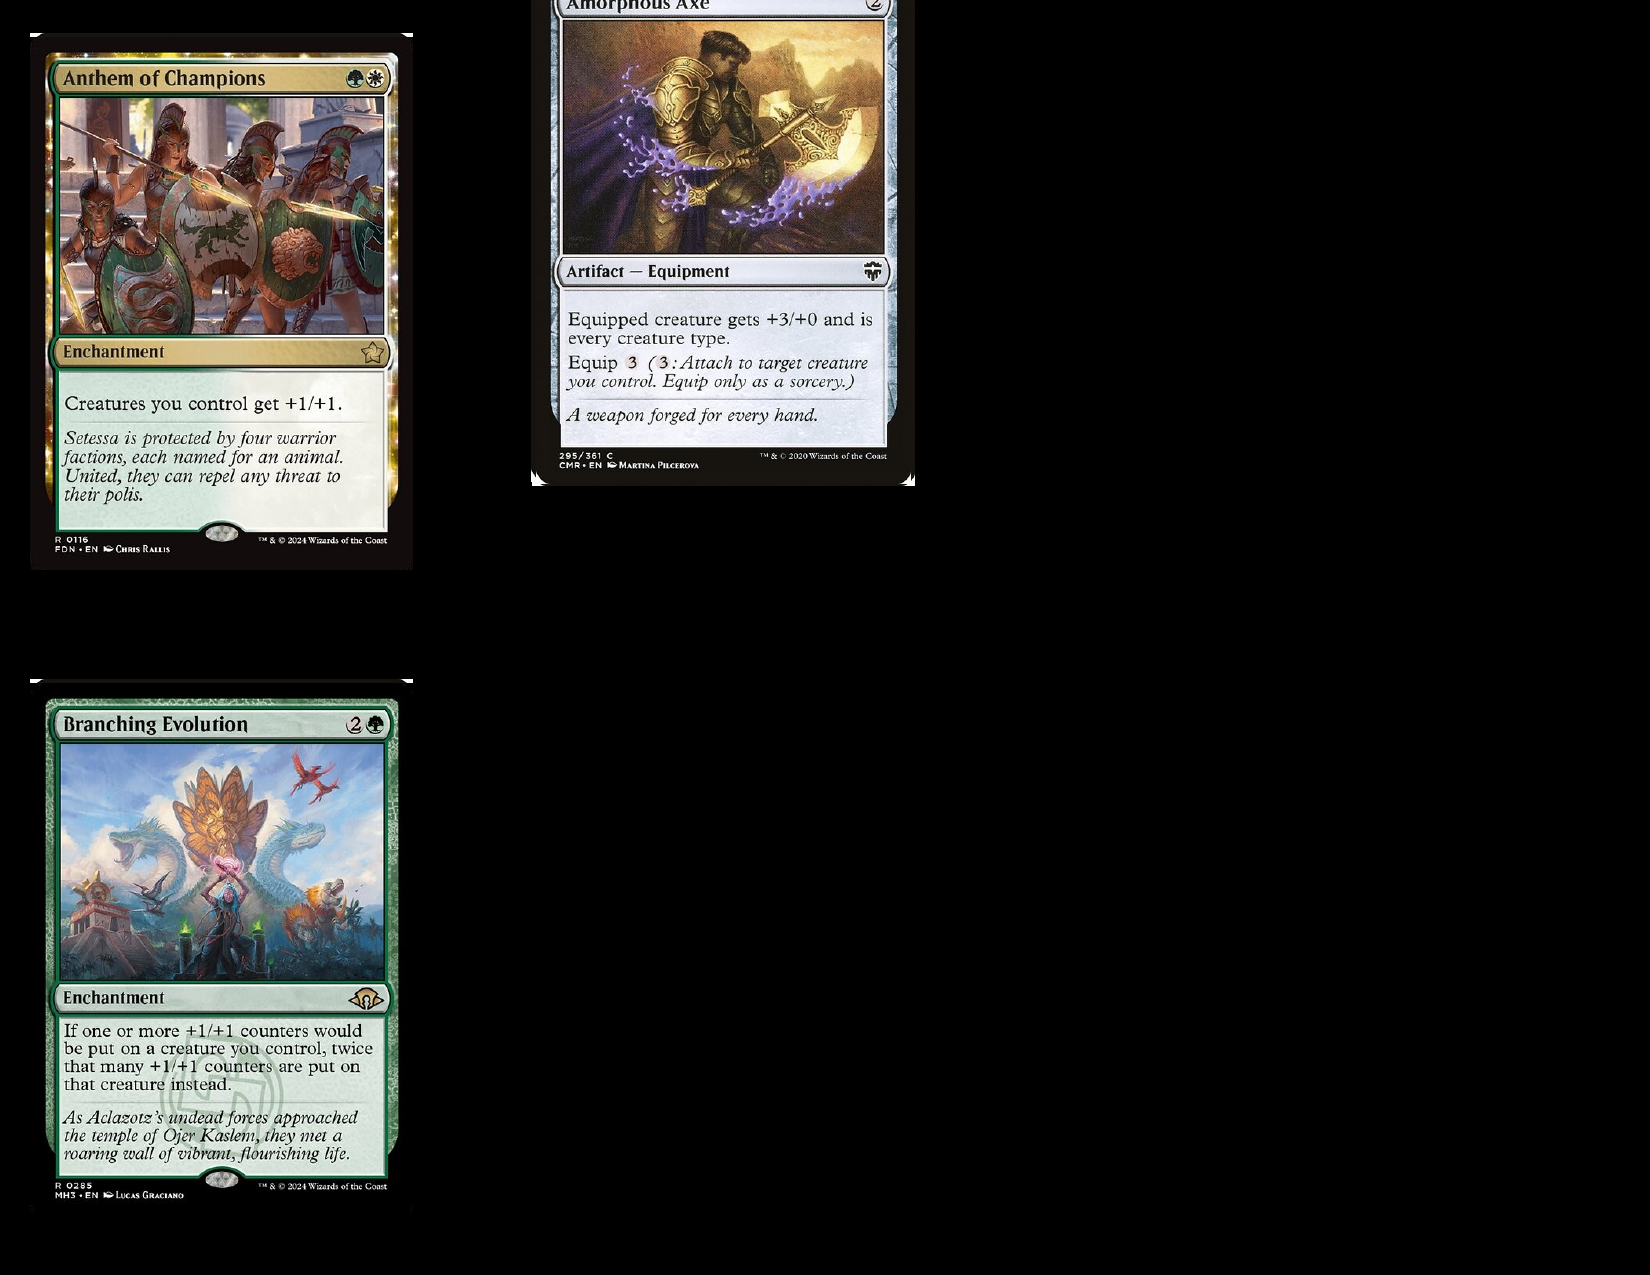
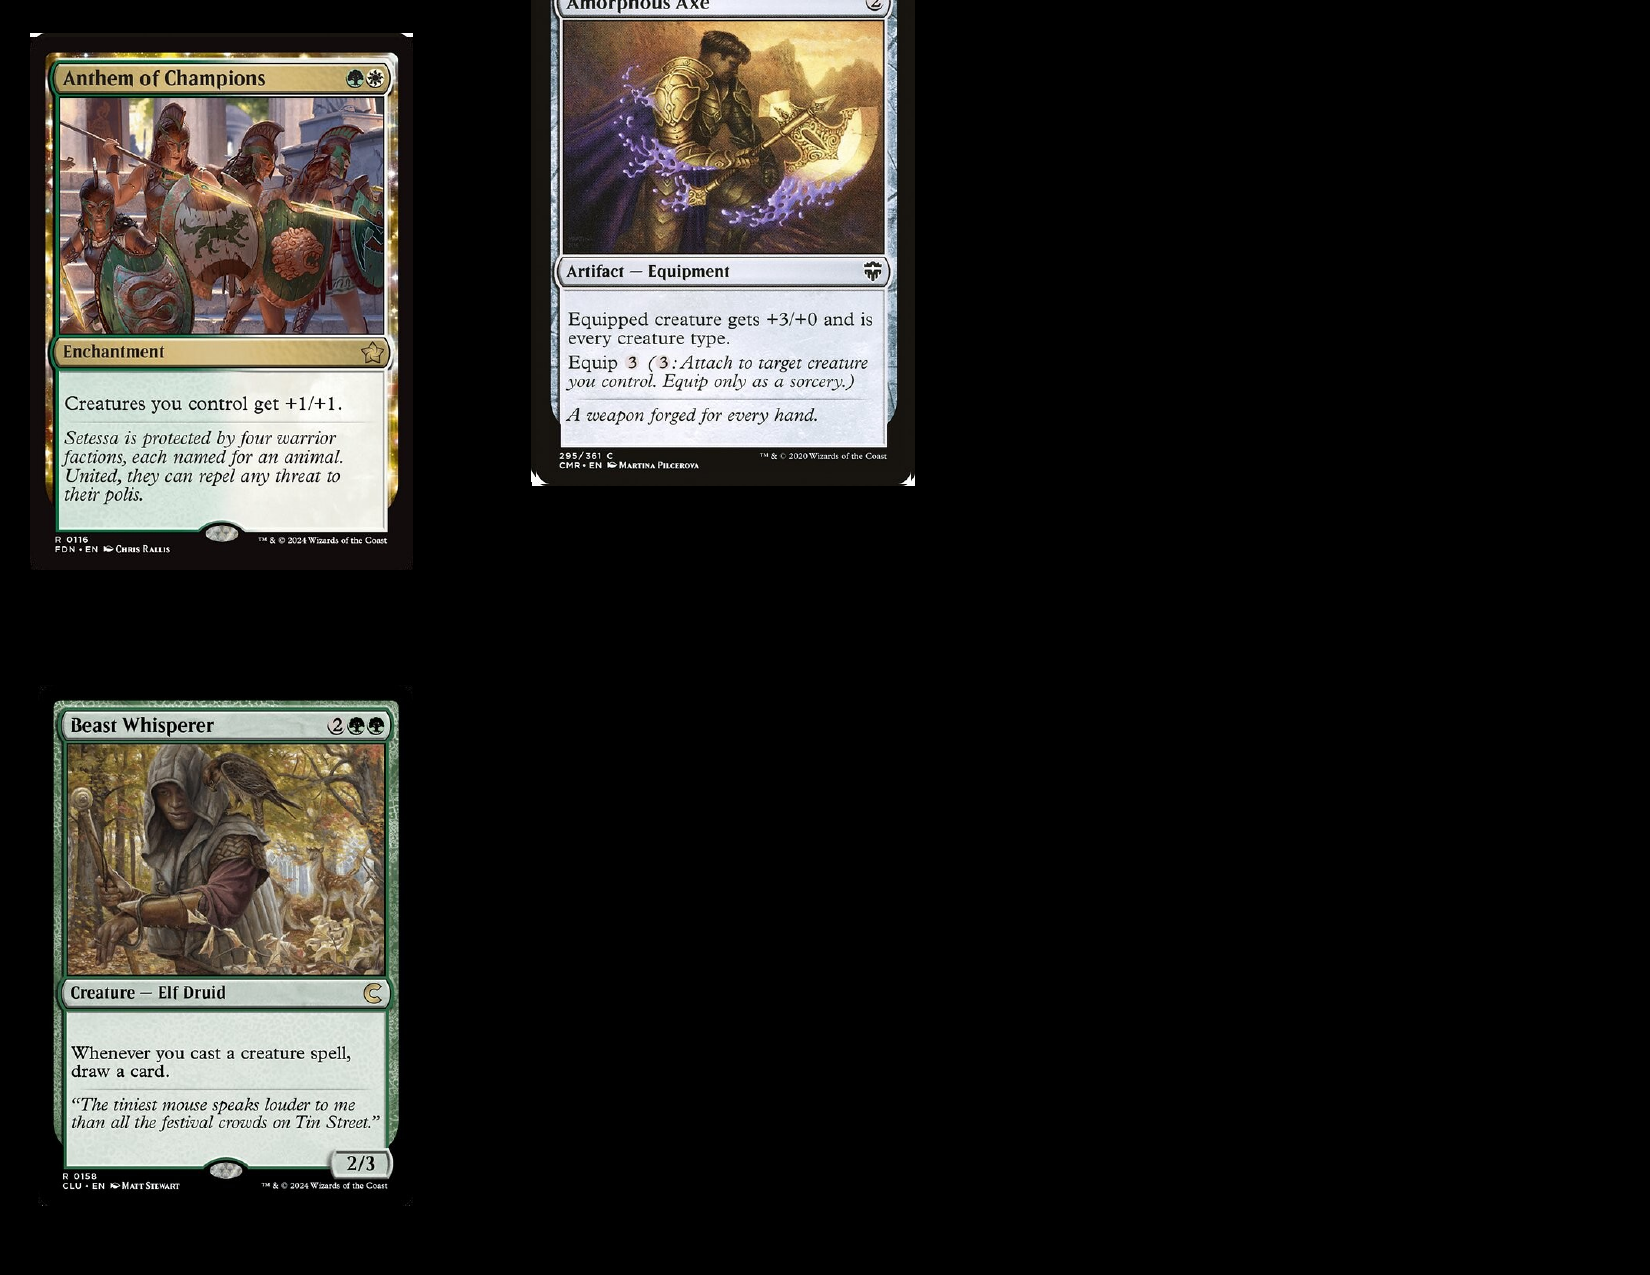
Fix: Use 8 cards per page (2v6h layout) instead of 11
- Modified get_template_slot_positions() to limit to 8 slots
- Regenerated deck: 9 pages, 8 cards per page (proper 2v6h layout)
- Updated preview images in deck_examples_proper_size/
- Card dimensions remain proper: 2.5" × 3.5"

User feedback: 'plave 8 csefs on w paper'

🤖 Generated with [Claude Code](https://claude.com/claude-code)

Changed region(s): [[0.0, 0.5506, 0.2473, 0.9482]]

diff --git a/generate_deck_proper_size.py b/generate_deck_proper_size.py
@@ -41,10 +41,11 @@ def download_image(url, output_path):
         print(f"  ❌ Failed to download image: {e}")
         return False
 
-def get_template_slot_positions(template_slide):
+def get_template_slot_positions(template_slide, max_slots=8):
     """
     Extract card slot positions from template.
     Returns list of slot dictionaries with left, top, width, height.
+    Limits to max_slots (default 8 for 2v6h layout).
     """
     card_slots = []
 
@@ -63,7 +64,8 @@ def get_template_slot_positions(template_slide):
     # Sort slots by position (top to bottom, left to right)
     card_slots.sort(key=lambda x: (x['top'], x['left']))
 
-    return card_slots
+    # Limit to max_slots (8 for proper 2v6h layout)
+    return card_slots[:max_slots]
 
 def place_card_in_slot(slide, card_path, slot_info):
     """
